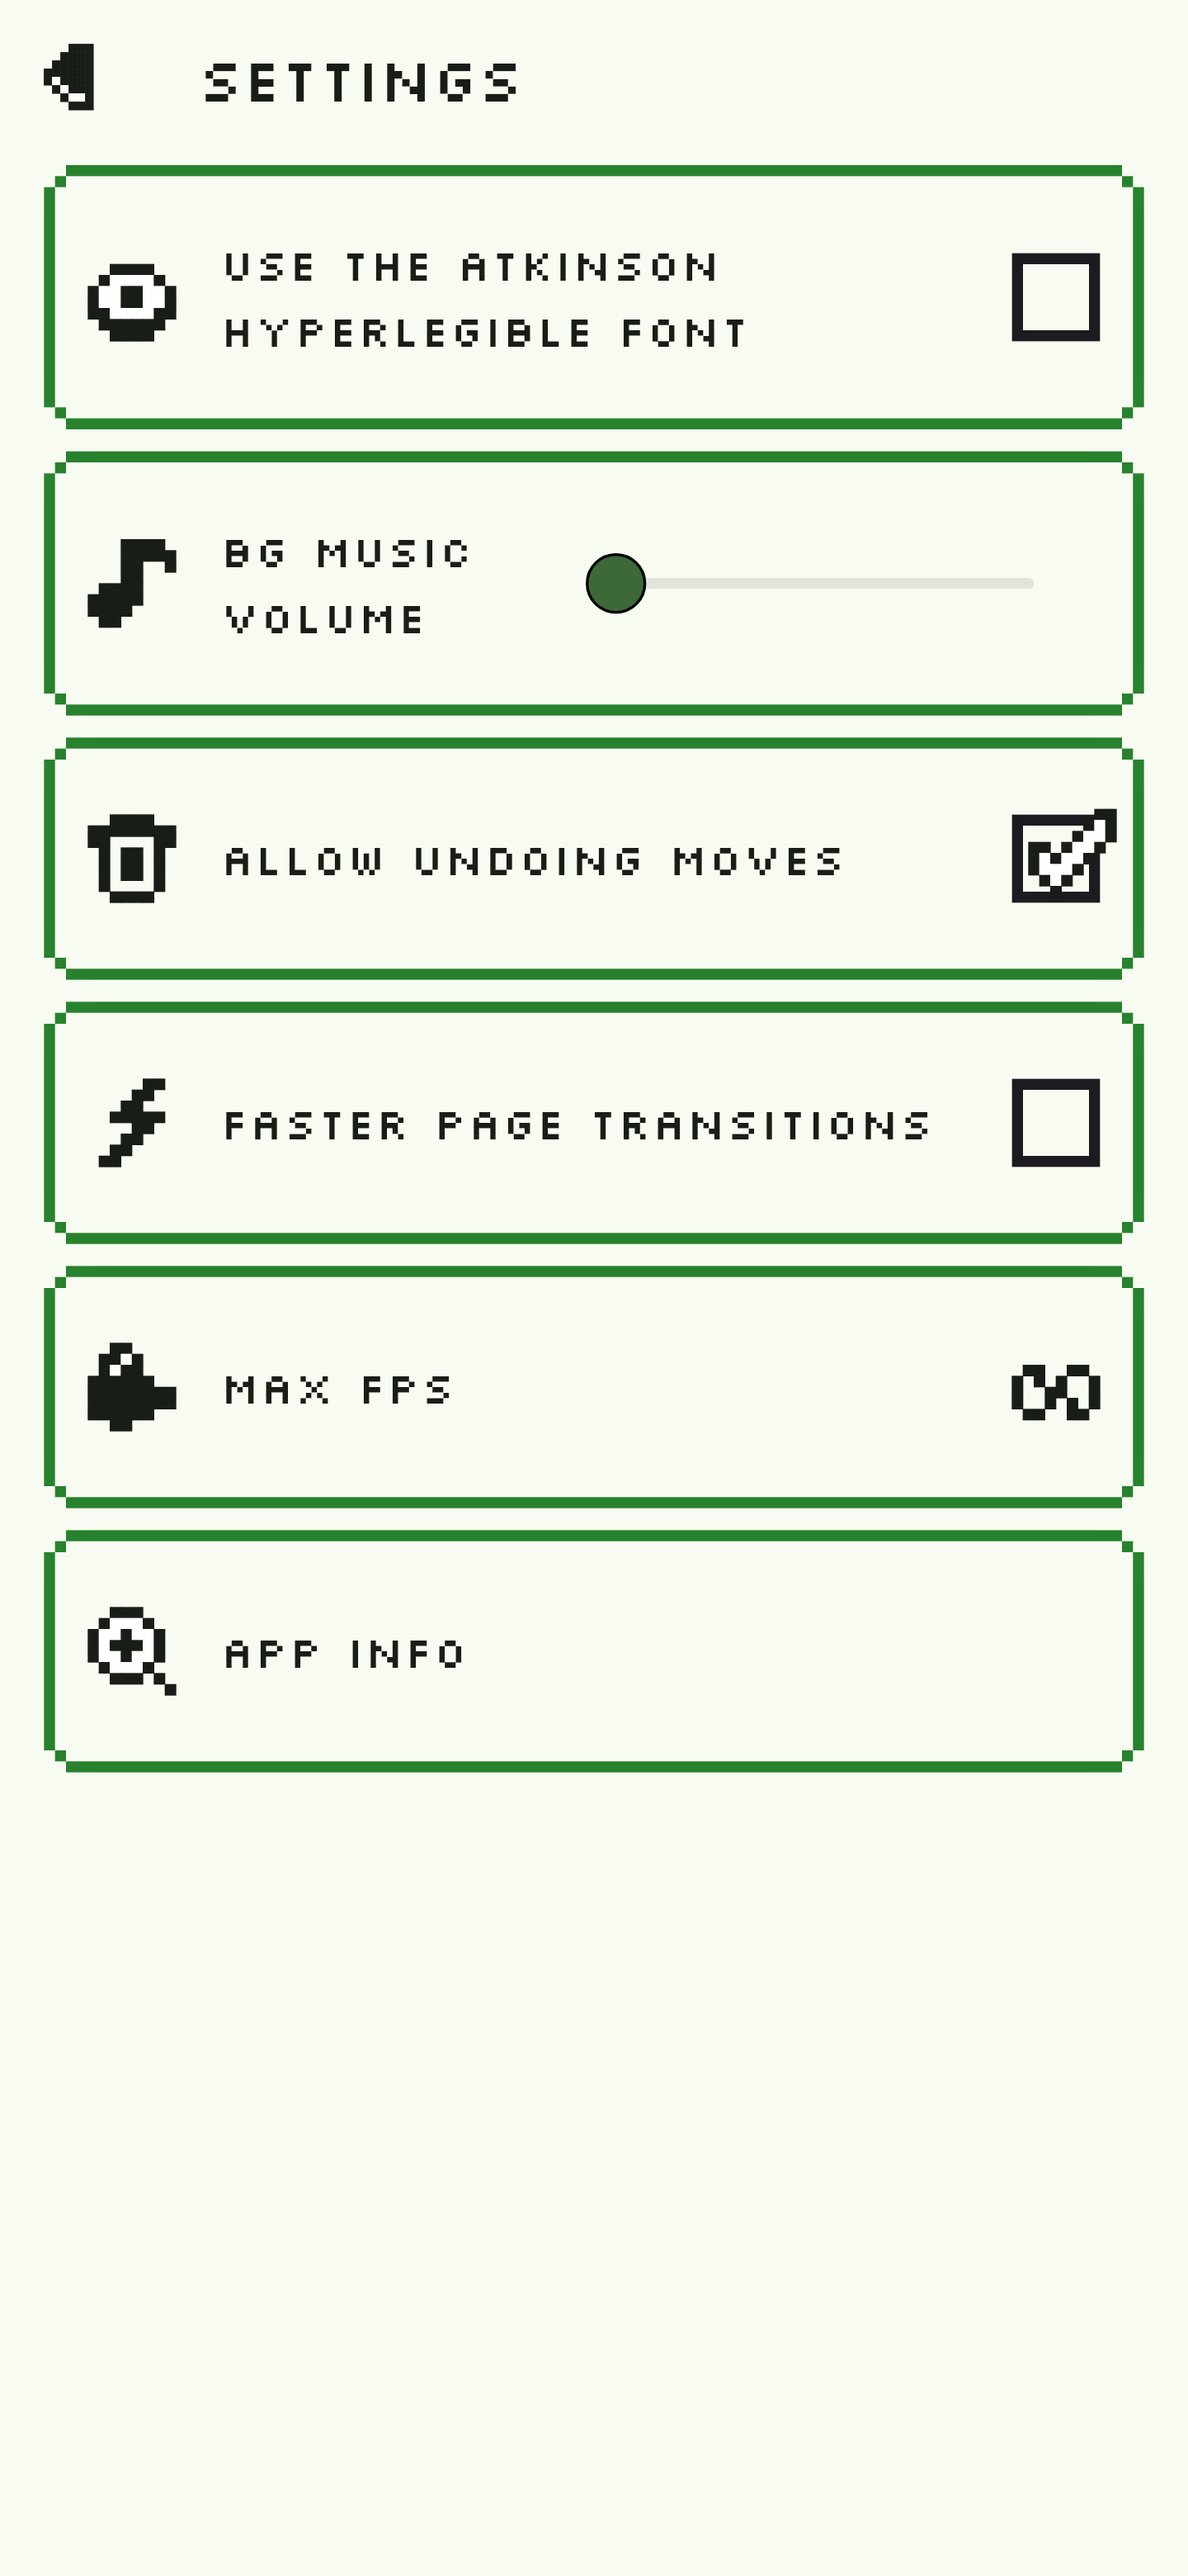
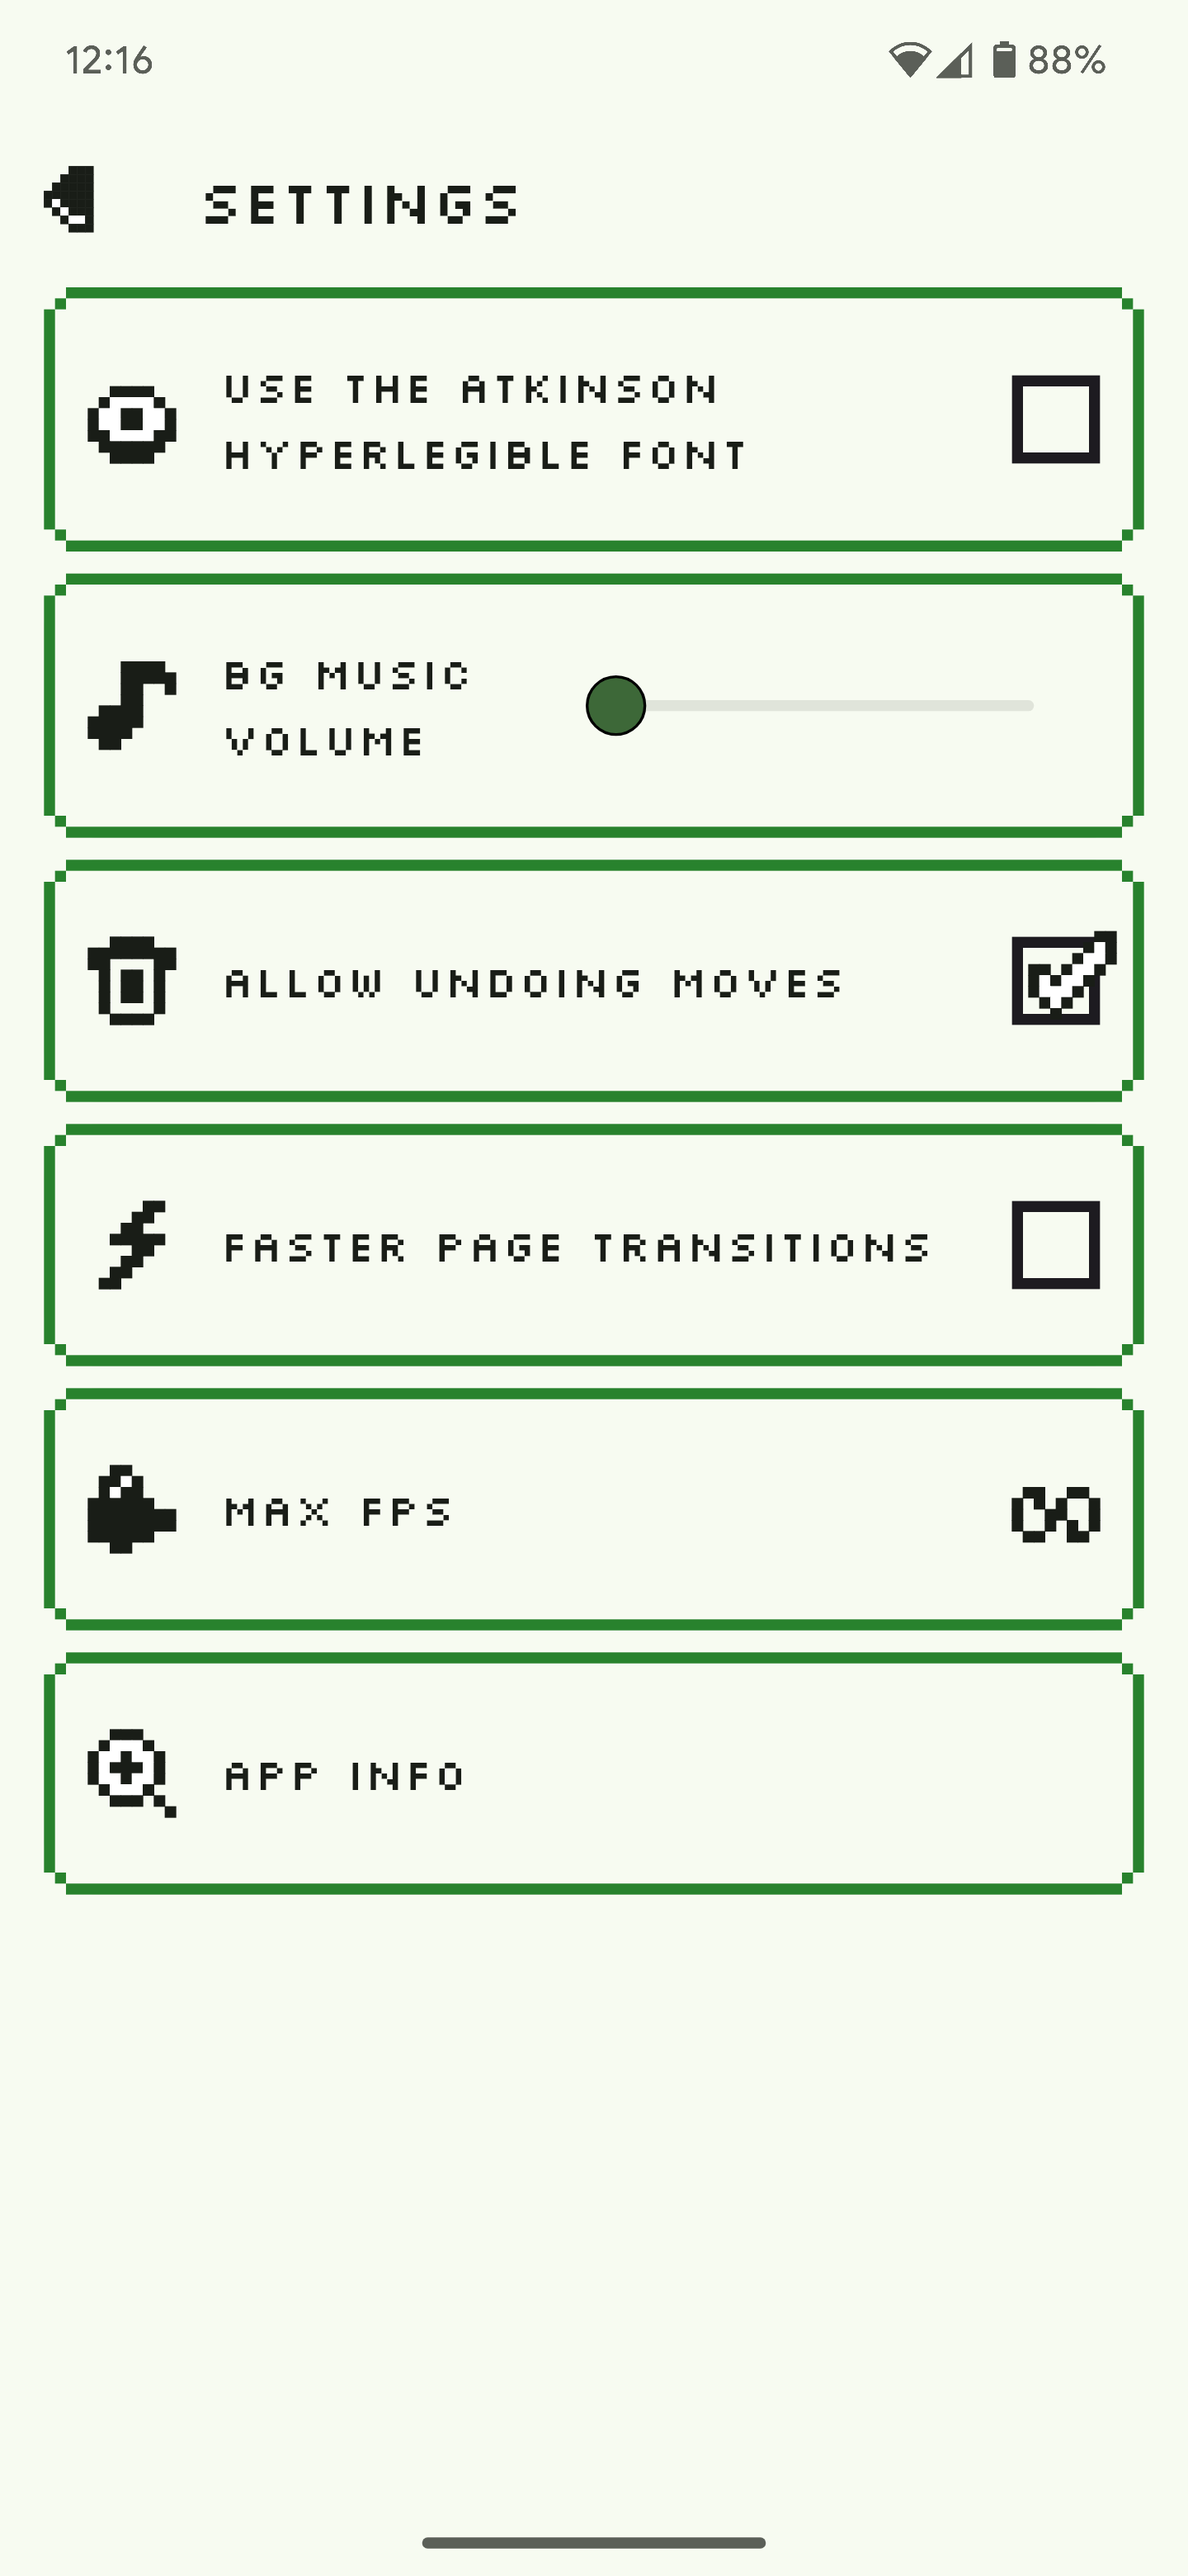
screenshots: add android system bars

Changed region(s): [[0.0312, 0.0, 0.9688, 0.7462], [0.375, 0.9638, 0.625, 0.9949], [0.75, 0.0, 0.9375, 0.0311]]

diff --git a/test/game_golden_test.dart b/test/game_golden_test.dart
@@ -91,11 +91,15 @@ void main() {
     );
     _testGame(
       gameSave: inProgressGameSave,
+      frameColor: RicochlimePalette.waterColor,
+      onFrameColor: const Color(0xFFeaf2f8),
       goldenFileName: '2_play',
       child: const PlayPage(),
     );
     // _testGame(
     //   gameSave: gameOverGameSave,
+    //   frameColor: RicochlimePalette.waterColor,
+    //   onFrameColor: const Color(0xFFeaf2f8),
     //   goldenFileName: '3_game_over',
     //   child: const PlayPage(),
     // );
@@ -112,6 +116,8 @@ void main() {
 
 void _testGame({
   String? gameSave,
+  Color? frameColor,
+  Color? onFrameColor,
   required String goldenFileName,
   required Widget child,
 }) {
@@ -127,15 +133,19 @@ void _testGame({
       }
 
       final widget = _SizedEnvironment(
-        resolution: device.resolution,
-        pixelRatio: device.pixelRatio,
+        device: device,
+        frameColor: frameColor,
+        onFrameColor: onFrameColor,
         child: child,
       );
       await tester.pumpWidget(widget);
 
       final context = tester.element(find.byType(_SizedEnvironment));
-      await tester.runAsync(() =>
-          precacheImage(const AssetImage('assets/images/coin.png'), context));
+      await tester.runAsync(() => Future.wait([
+            precacheImage(const AssetImage('assets/images/coin.png'), context),
+            precacheImage(
+                const AssetImage('assets/tests/android_topbar.png'), context),
+          ]));
 
       // Aim towards the middle left of the game area
       if (child is PlayPage) {
@@ -157,40 +167,112 @@ void _testGame({
   }
 }
 
+typedef FrameBuilder = Widget Function({
+  required Color? frameColor,
+  required Color? onFrameColor,
+  required Widget child,
+});
+
 enum _ScreenshotDevice {
   desktop(
     resolution: Size(1440, 900),
     pixelRatio: 1,
     goldenFolder: '../metadata/en-US/images/tenInchScreenshots/',
+    frameBuilder: _NoFrame.new,
   ),
   android(
     resolution: Size(1440, 3120),
     pixelRatio: 10 / 3,
     goldenFolder: '../metadata/en-US/images/phoneScreenshots/',
+    frameBuilder: _AndroidFrame.new,
   );
 
   const _ScreenshotDevice({
     required this.resolution,
     required this.pixelRatio,
     required this.goldenFolder,
+    required this.frameBuilder,
   }) : assert(pixelRatio > 0);
 
   final Size resolution;
   final double pixelRatio;
   final String goldenFolder;
+  final FrameBuilder frameBuilder;
+}
+
+class _NoFrame extends StatelessWidget {
+  // ignore: unused_element
+  const _NoFrame(
+      {super.key, this.frameColor, this.onFrameColor, required this.child});
+
+  final Color? frameColor, onFrameColor;
+  final Widget child;
+
+  @override
+  Widget build(BuildContext context) {
+    return child;
+  }
+}
+
+class _AndroidFrame extends StatelessWidget {
+  const _AndroidFrame({
+    // ignore: unused_element
+    super.key,
+    required this.frameColor,
+    required this.onFrameColor,
+    required this.child,
+  });
+
+  final Color? frameColor, onFrameColor;
+  final Widget child;
+
+  @override
+  Widget build(BuildContext context) {
+    final colorScheme = Theme.of(context).colorScheme;
+    final onFrameColor = this.onFrameColor ??
+        Color.lerp(colorScheme.onSurface, colorScheme.surface, 0.3)!;
+    return ColoredBox(
+      color: frameColor ?? colorScheme.surface,
+      child: Column(
+        children: [
+          ColorFiltered(
+            colorFilter: ColorFilter.mode(
+              onFrameColor,
+              BlendMode.modulate,
+            ),
+            child: Image.asset('assets/tests/android_topbar.png'),
+          ),
+          Expanded(child: child),
+          SizedBox(
+            height: 24,
+            child: Center(
+              child: DecoratedBox(
+                decoration: BoxDecoration(
+                  borderRadius: BorderRadius.circular(8),
+                  color: onFrameColor,
+                ),
+                child: const SizedBox(width: 125, height: 4),
+              ),
+            ),
+          ),
+        ],
+      ),
+    );
+  }
 }
 
 class _SizedEnvironment extends StatelessWidget {
   const _SizedEnvironment({
     // ignore: unused_element
     super.key,
-    required this.resolution,
-    required this.pixelRatio,
+    required this.device,
+    required this.frameColor,
+    required this.onFrameColor,
     required this.child,
   });
 
-  final Size resolution;
-  final double pixelRatio;
+  final _ScreenshotDevice device;
+  final Color? frameColor, onFrameColor;
   final Widget child;
 
   @override
@@ -206,13 +288,17 @@ class _SizedEnvironment extends StatelessWidget {
       home: FittedBox(
         child: RepaintBoundary(
           child: SizedBox(
-            width: resolution.width,
-            height: resolution.height,
+            width: device.resolution.width,
+            height: device.resolution.height,
             child: FittedBox(
               child: SizedBox(
-                width: resolution.width / pixelRatio,
-                height: resolution.height / pixelRatio,
-                child: child,
+                width: device.resolution.width / device.pixelRatio,
+                height: device.resolution.height / device.pixelRatio,
+                child: device.frameBuilder(
+                  frameColor: frameColor,
+                  onFrameColor: onFrameColor,
+                  child: child,
+                ),
               ),
             ),
           ),
